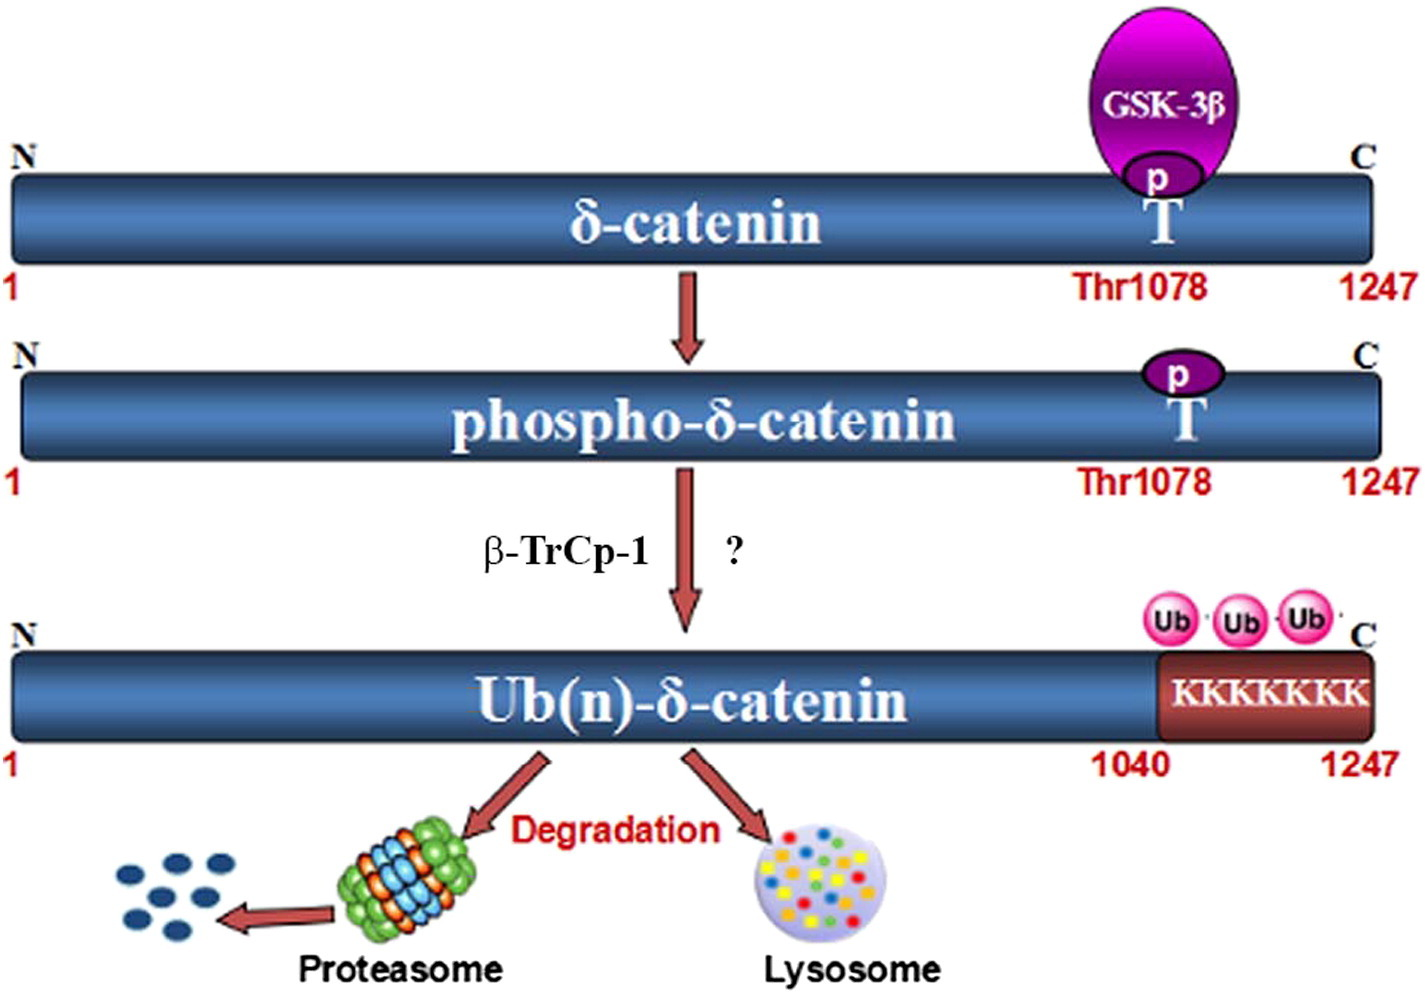
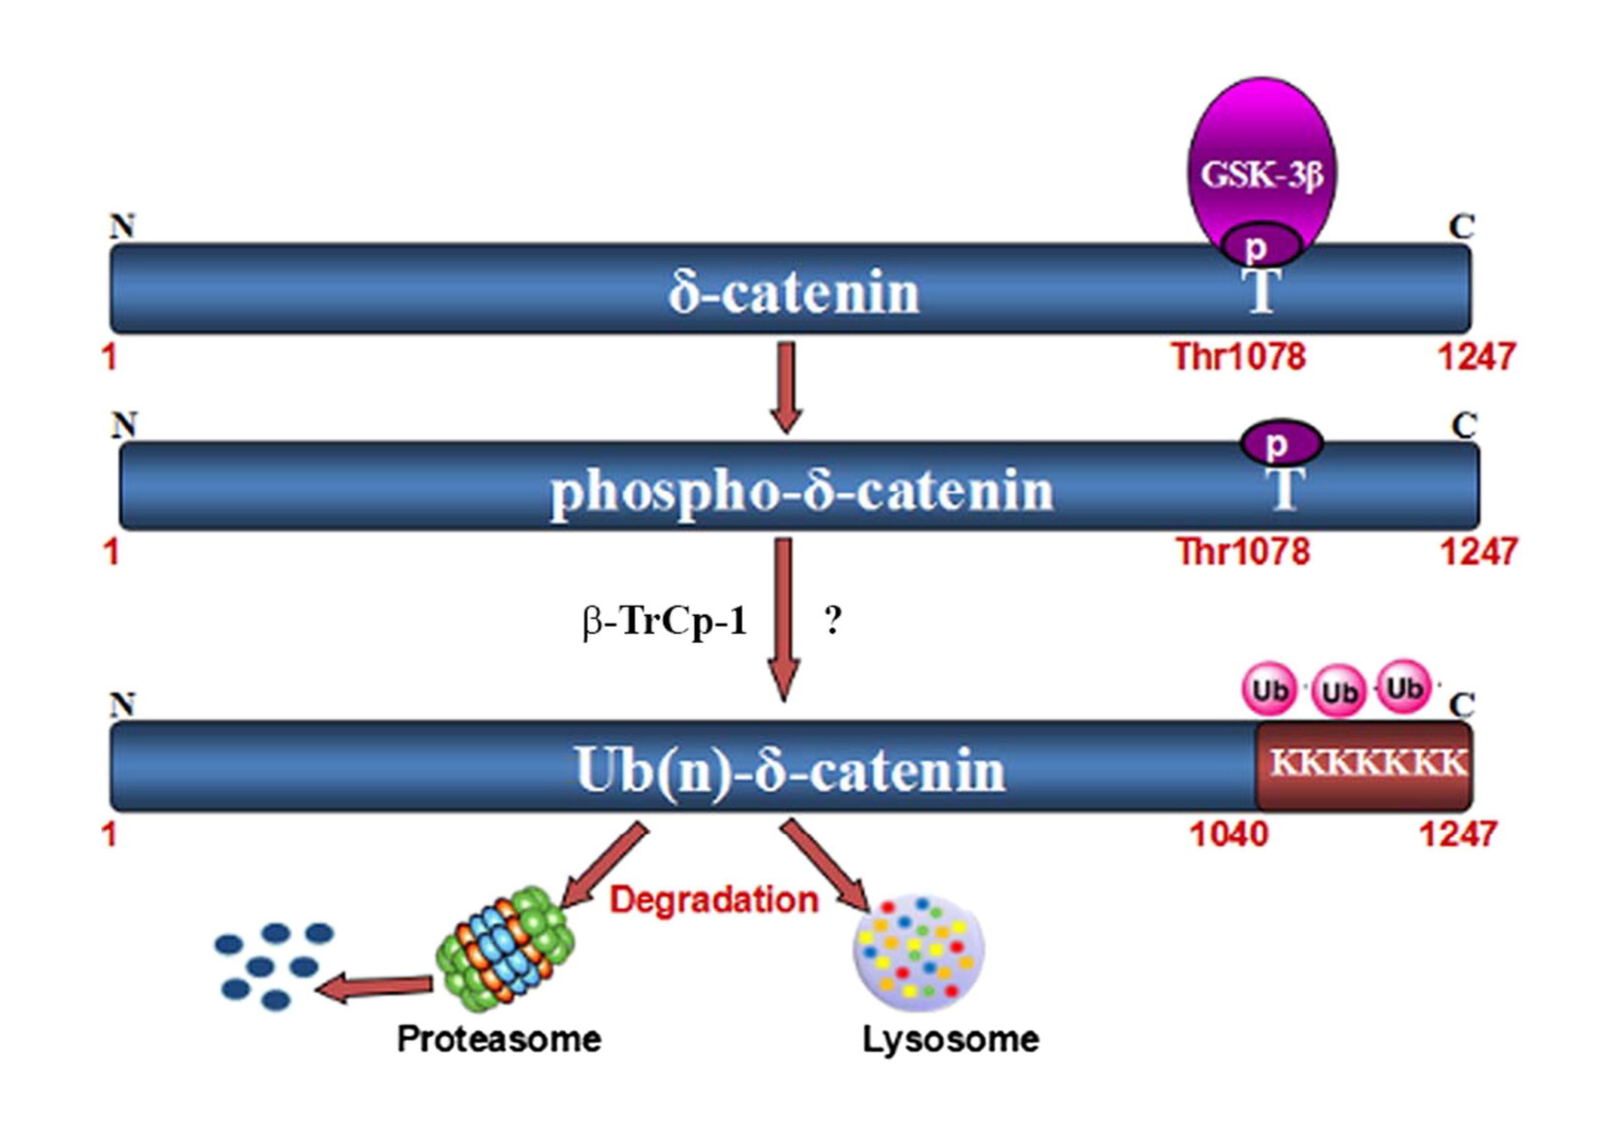
Updated projects

diff --git a/_projects/13_project.md b/_projects/13_project.md
@@ -1,11 +1,11 @@
 ---
 layout: page
-title: Pancreatic cancer
-description: Role of Jak1 in Pancreatic cancer initiation and progression
-img: assets/img/13.jpeg
-importance: 1
+title: δ-catenin<br>ubiquitination
+description: Mechanism of δ-catenin ubiquitination and implication of β-TrCP-1 as a potential E3 ligase
+img: assets/img/16.jpg
+importance: 4
 category: work
-related_publications: shrestha2024janus, dennaoui2021models
+related_publications: 
 published: true
 ---
 

diff --git a/_projects/14_project.md b/_projects/14_project.md
@@ -1,11 +1,11 @@
 ---
 layout: page
-title: Pancreatic cancer
-description: Role of Jak1 in Pancreatic cancer initiation and progression
-img: assets/img/13.jpeg
-importance: 1
+title: Prostate<br>cancer
+description: Factors affecting adherens junction complexes and function of δ-catenin in cancer
+img: assets/img/16.jpg
+importance: 5
 category: work
-related_publications: shrestha2024janus, dennaoui2021models
+related_publications: 
 published: true
 ---
 

diff --git a/_projects/11_project.md b/_projects/11_project.md
@@ -1,11 +1,11 @@
 ---
 layout: page
-title: Pancreatic cancer
-description: Role of Jak1 in Pancreatic cancer initiation and progression
-img: assets/img/13.jpeg
-importance: 1
+title: Pancreas<br>development
+description: Jak1 Signaling in Mammary Tumor Progression
+img: assets/img/15.jpg
+importance: 2
 category: work
-related_publications: shrestha2024janus, dennaoui2021models
+related_publications: 
 published: true
 ---
 

diff --git a/_projects/12_project.md b/_projects/12_project.md
@@ -1,11 +1,11 @@
 ---
 layout: page
-title: Pancreatic cancer
-description: Role of Jak1 in Pancreatic cancer initiation and progression
-img: assets/img/13.jpeg
-importance: 1
+title: Breast<br>cancer
+description: Jak1 Signaling in Mammary Tumor Progression
+img: assets/img/14.jpg
+importance: 3
 category: work
-related_publications: shrestha2024janus, dennaoui2021models
+related_publications: 
 published: true
 ---
 

diff --git a/_pages/projects.md b/_pages/projects.md
@@ -2,7 +2,7 @@
 layout: page
 title: projects
 permalink: /projects/
-description: A growing collection of your cool projects.
+description: #A growing collection of your cool projects.
 nav: true
 nav_order: 3
 display_categories: [work, fun]
